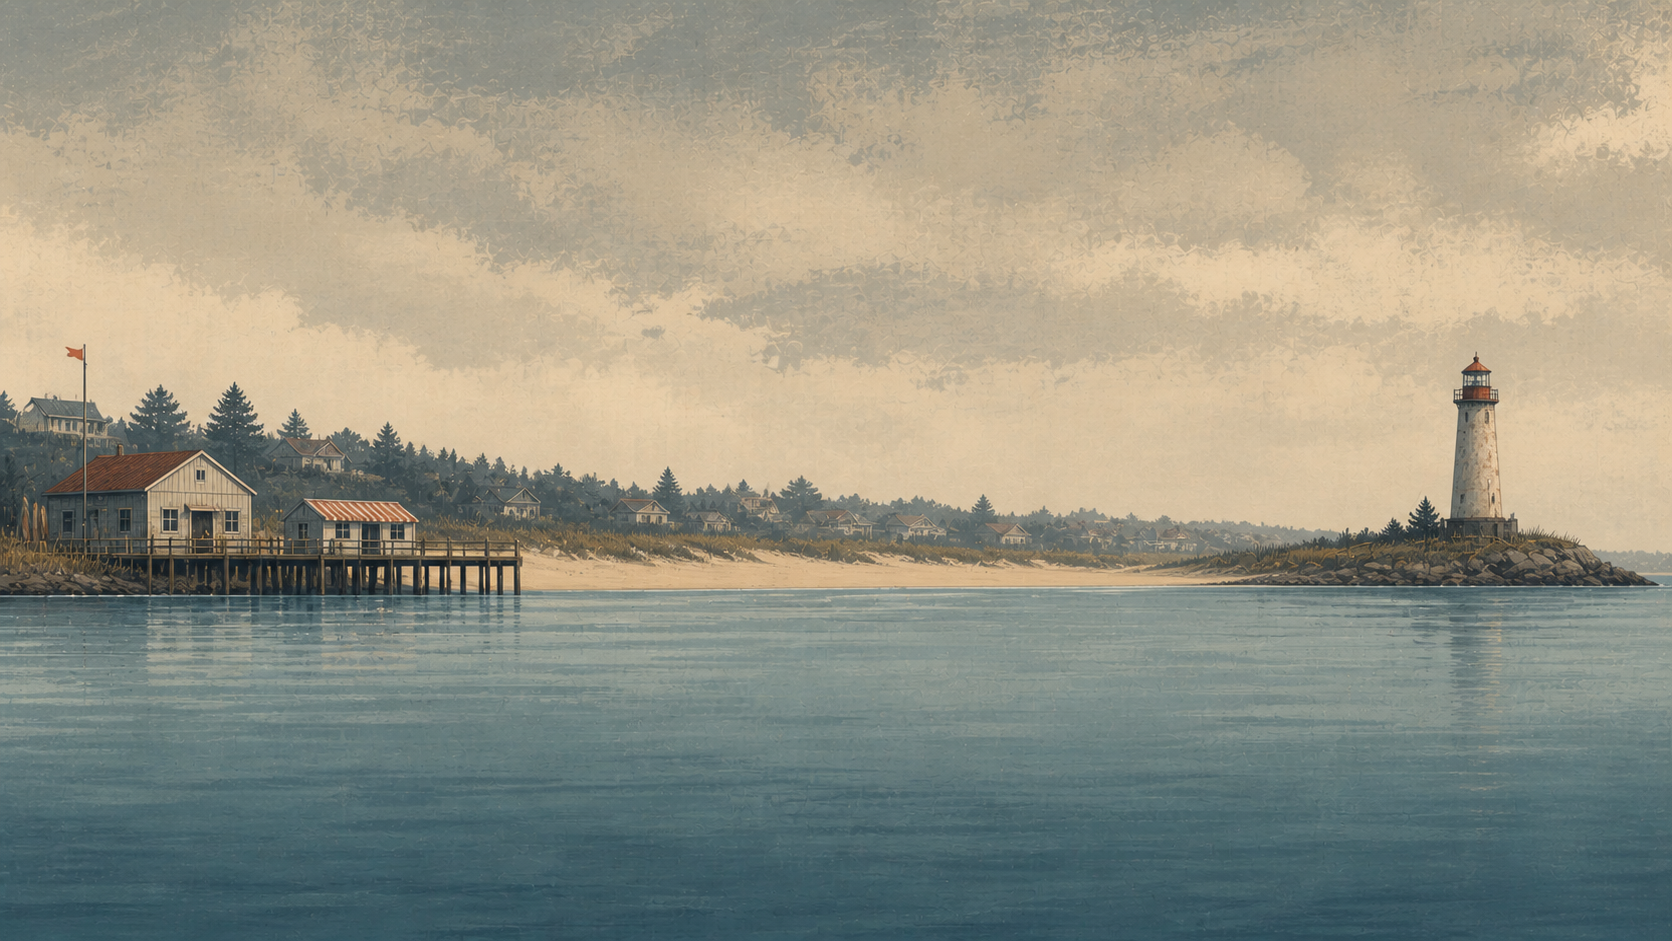
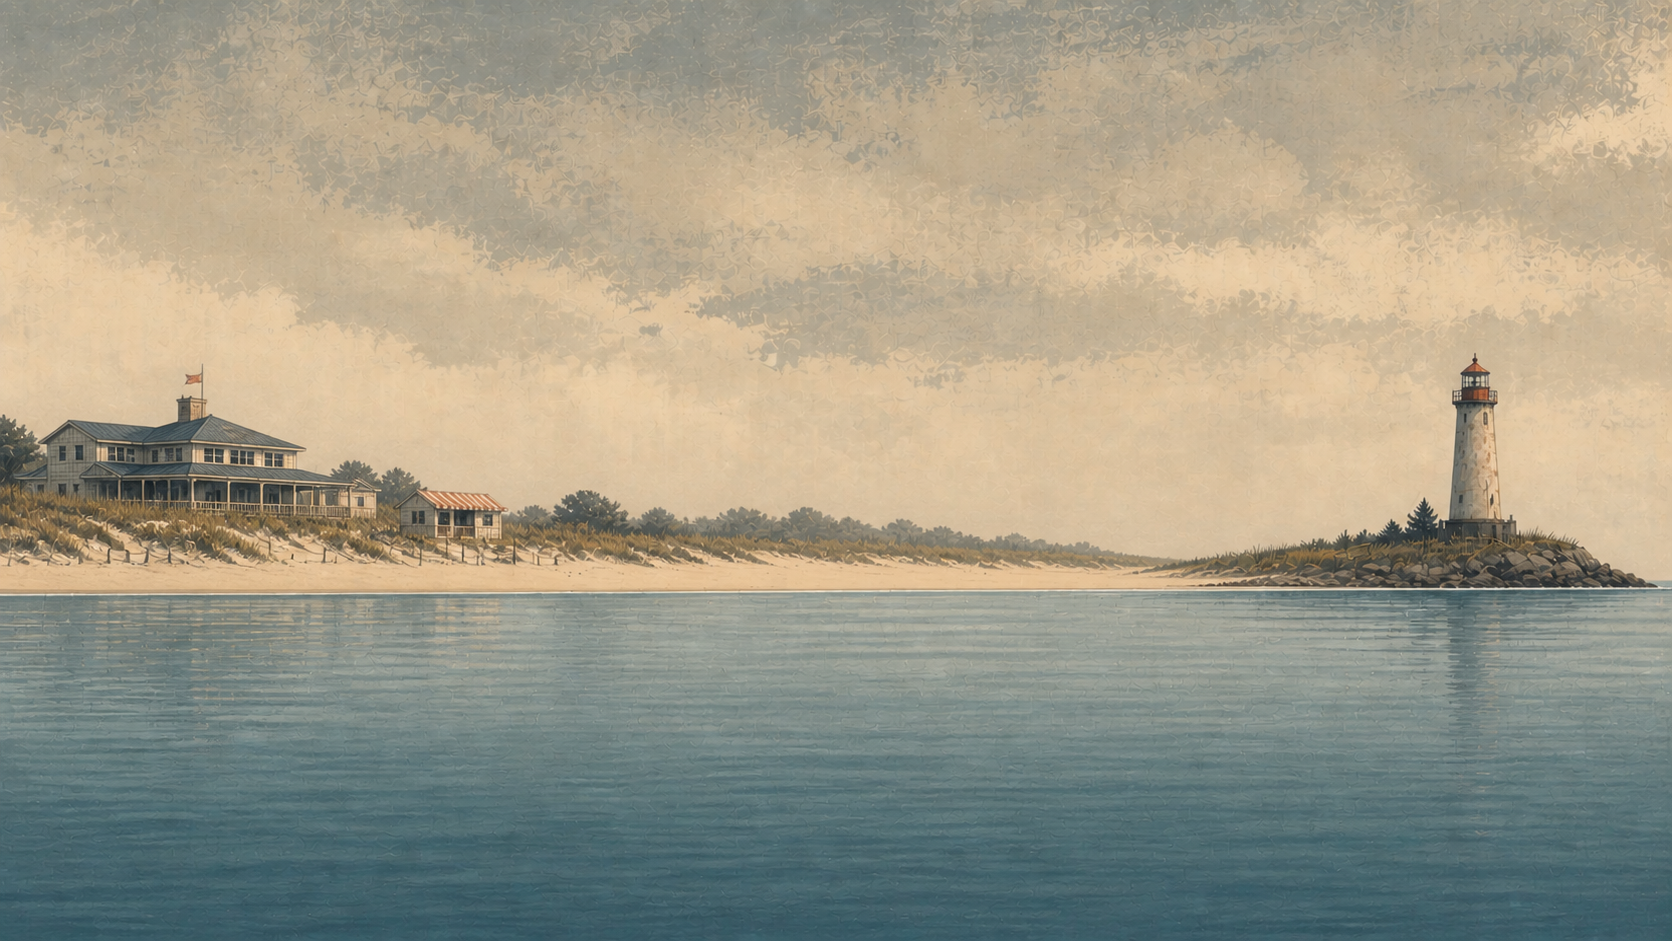
fix: realign and redraw Beach shoreline

diff --git a/src/game/renderer.ts b/src/game/renderer.ts
@@ -56,7 +56,11 @@ import {
   surfaceFishPose,
   type SurfaceFishingCue,
 } from "./fishingSpotEffects";
-import { calculatePanoramaLayout } from "./panorama";
+import {
+  BEACH_AUTHORED_WATERLINE_RATIO,
+  calculatePanoramaLayout,
+  LAKE_AUTHORED_WATERLINE_RATIO,
+} from "./panorama";
 import {
   maxFishingDepth,
   navigationGuidance,
@@ -274,11 +278,21 @@ export class CanvasRenderer {
     const nightIntensity = nightVisualIntensity(simulation);
     const dayImage = simulation.world === "beach" ? art.beach : art.lake;
     const nightImage = simulation.world === "beach" ? art.beachNight : art.lakeNight;
-    const waterline = this.drawPanorama(nightIntensity >= 1 ? nightImage : dayImage, camera, width, height);
+    const authoredWaterlineRatio =
+      simulation.world === "beach"
+        ? BEACH_AUTHORED_WATERLINE_RATIO
+        : LAKE_AUTHORED_WATERLINE_RATIO;
+    const waterline = this.drawPanorama(
+      nightIntensity >= 1 ? nightImage : dayImage,
+      camera,
+      width,
+      height,
+      authoredWaterlineRatio,
+    );
     if (nightIntensity > 0 && nightIntensity < 1) {
       context.save();
       context.globalAlpha = nightIntensity;
-      this.drawPanorama(nightImage, camera, width, height);
+      this.drawPanorama(nightImage, camera, width, height, authoredWaterlineRatio);
       context.restore();
     }
     context.save();
@@ -690,6 +704,10 @@ export class CanvasRenderer {
     const nightIntensity = nightVisualIntensity(simulation);
     const dayImage = simulation.world === "beach" ? art.beach : art.lake;
     const nightImage = simulation.world === "beach" ? art.beachNight : art.lakeNight;
+    const authoredWaterlineRatio =
+      simulation.world === "beach"
+        ? BEACH_AUTHORED_WATERLINE_RATIO
+        : LAKE_AUTHORED_WATERLINE_RATIO;
     const drawSurfaceImage = (
       image: HTMLImageElement,
       alpha: number,
@@ -701,6 +719,7 @@ export class CanvasRenderer {
         camera,
         viewportWidth: width,
         viewportHeight: height,
+        authoredWaterlineRatio,
       });
       context.save();
       context.beginPath();
@@ -918,6 +937,7 @@ export class CanvasRenderer {
     camera: SideScrollCamera,
     width: number,
     height: number,
+    authoredWaterlineRatio: number,
   ): number {
     const layout = calculatePanoramaLayout({
       imageWidth: image.naturalWidth,
@@ -925,6 +945,7 @@ export class CanvasRenderer {
       camera,
       viewportWidth: width,
       viewportHeight: height,
+      authoredWaterlineRatio,
     });
     this.context.drawImage(
       image,

diff --git a/src/tests/panorama.test.ts b/src/tests/panorama.test.ts
@@ -5,7 +5,10 @@ import {
   dampSideScrollCamera,
   worldToScreenX,
 } from "../game/camera";
-import { calculatePanoramaLayout } from "../game/panorama";
+import {
+  BEACH_AUTHORED_WATERLINE_RATIO,
+  calculatePanoramaLayout,
+} from "../game/panorama";
 
 const IMAGE_WIDTH = 1672;
 const IMAGE_HEIGHT = 941;
@@ -34,6 +37,28 @@ describe("panorama layout", () => {
     expect(waterlineRatio).toBeCloseTo(0.78);
     expect(layout.sourceY).toBeLessThan(IMAGE_HEIGHT * 0.61);
     expect(layout.sourceY + layout.sourceHeight).toBeGreaterThan(IMAGE_HEIGHT * 0.61);
+  });
+
+  test("aligns the Beach crop to its lower painted ocean edge", () => {
+    const camera = createSideScrollCamera({
+      focusX: 0.15,
+      velocityX: 0,
+      viewWidth: 0.3,
+      lookAheadTime: 0.24,
+    });
+    const layout = calculatePanoramaLayout({
+      imageWidth: IMAGE_WIDTH,
+      imageHeight: IMAGE_HEIGHT,
+      camera,
+      viewportWidth: 1920,
+      viewportHeight: 1010,
+      authoredWaterlineRatio: BEACH_AUTHORED_WATERLINE_RATIO,
+    });
+    const paintedOceanEdge = IMAGE_HEIGHT * BEACH_AUTHORED_WATERLINE_RATIO;
+
+    expect(layout.waterline / 1010).toBeCloseTo(0.78);
+    expect(layout.sourceY).toBeLessThan(paintedOceanEdge);
+    expect(layout.sourceY + layout.sourceHeight).toBeGreaterThan(paintedOceanEdge);
   });
 
   test("keeps the crop within the panorama at both lake edges", () => {

diff --git a/src/game/panorama.ts b/src/game/panorama.ts
@@ -14,9 +14,11 @@ interface PanoramaLayoutInput {
   camera: SideScrollCamera;
   viewportWidth: number;
   viewportHeight: number;
+  authoredWaterlineRatio?: number;
 }
 
-const AUTHORED_WATERLINE_RATIO = 0.61;
+export const LAKE_AUTHORED_WATERLINE_RATIO = 0.61;
+export const BEACH_AUTHORED_WATERLINE_RATIO = 0.627;
 const DISPLAYED_WATERLINE_RATIO = 0.78;
 
 export function calculatePanoramaLayout(input: PanoramaLayoutInput): PanoramaLayout {
@@ -24,7 +26,8 @@ export function calculatePanoramaLayout(input: PanoramaLayoutInput): PanoramaLay
   const viewportAspect = input.viewportWidth / input.viewportHeight;
   const sourceHeight = Math.min(input.imageHeight, sourceWidth / viewportAspect);
   const sourceX = input.camera.left * input.imageWidth;
-  const authoredWaterline = input.imageHeight * AUTHORED_WATERLINE_RATIO;
+  const authoredWaterline =
+    input.imageHeight * (input.authoredWaterlineRatio ?? LAKE_AUTHORED_WATERLINE_RATIO);
   const sourceY = clamp(
     authoredWaterline - sourceHeight * DISPLAYED_WATERLINE_RATIO,
     0,

diff --git a/Docs/Asset-Manifest.md b/Docs/Asset-Manifest.md
@@ -25,11 +25,11 @@ The boat, harbor pier, fish atlas, and world atlas were requested on a uniform `
 ### `beach-chart.png` and `beach-chart-night.png`
 
 - Runtime role: unlockable Beach location panorama and its composition-matched nighttime plate
-- Generated and runtime size: 1672 × 941 for both plates, exactly matching the lake panorama's runtime dimensions, camera crop, and waterline calculations
+- Generated and runtime size: 1672 × 941 for both plates, exactly matching the lake panorama's runtime dimensions and horizontal camera scale while using the Beach plate's measured authored-waterline ratio
 - Generated on: 14 August 2026 with OpenAI's built-in image-generation tool
-- Generation mode: the daytime plate was generated with `lake-chart.png` as the authoritative style, camera, world-scale, waterline, palette, and readability reference; the night plate is a lighting-weather edit of the generated daytime Beach plate
-- Day prompt: “Use case: stylized-concept. Asset type: production runtime panorama for the side-scrolling 2D browser game FSHING. Image 1 is the authoritative reference for painting style, camera, world scale, waterline placement, quiet atmospheric depth, palette restraint, and open gameplay readability only; create an original new location rather than editing or copying its lake geography. Create a seaside town called Beach, with a surf club, pier, and fish-and-chip shop on the far left and a lighthouse on the far right. A calm coastal bay with a broad sandy beach and low seaside town is viewed from across the water. On the far left, include a modest weatherboard surf lifesaving club, a narrow timber pier extending rightward over the water, and a small fish-and-chip shop with a restrained striped awning and serving window. On the far right, include a tall weathered lighthouse on a low rocky headland. Keep the middle mostly open water and distant beach so a player boat and gameplay markers remain readable. Use restrained editorial gouache and screen-print illustration matching Image 1, with simplified shapes, soft dry-brush edges, subtle aged-paper grain, and atmospheric layers. Strict side-on landscape panorama, not top-down and not isometric. Match Image 1's wide 1672 × 941 aspect ratio, camera height, landmark scale, horizon depth, and crisp waterline at about 61 percent of image height. Full bleed. Left landmarks stay within the outer left quarter; lighthouse stays within the outer right quarter; unobstructed navigable water spans the full width. Quiet overcast late-afternoon coastal light. Muted slate blue and sea teal, weathered cream, sandy ochre, subdued coral and sparse safety-orange accents. Weathered painted timber, narrow pier planks and pilings at believable boat scale, sand, dune grass, dark coastal rock, and painted masonry lighthouse. Exactly one continuous coherent seaside world background. No player boat, fish, people, vehicles, text, readable shop signage, logo, UI, labels, borders, map, or watermark. Do not place obstacles in the open water. Preserve ample calm water below the waterline for gameplay. Make the surf club, pier, fish-and-chip shop, beach, town, and lighthouse all visibly distinct at gameplay scale. Avoid photorealism, glossy 3D, cartoon outlines, tropical resort imagery, crowded skyline, giant buildings, close-up structures, dramatic storm, crashing waves, duplicated lighthouses, and center foreground landmarks.”
-- Night prompt: “Use case: lighting-weather. Asset type: runtime side-scrolling game panorama, nighttime counterpart to the supplied Beach daytime background. Image 1 is the edit target and authoritative daytime Beach composition. Transform only the time of day from quiet overcast late afternoon to atmospheric deep coastal night. Preserve exactly the existing camera, 1672 × 941 aspect ratio, horizon, waterline, surf club, fish-and-chip shop, pier, beach, town, lighthouse, rocks, every object's placement and scale, and all open gameplay water. Use cool blue-black moonless ambient light, darker but readable silhouettes, a restrained warm surf-club window glow, a small warm shop glow, and one believable lighthouse lamp glow with subtle narrow reflections. No moon, boat, fish, people, characters, text, UI, labels, borders, watermark, fog, vignette, spotlight beam crossing the scene, camera change, or new landmarks. Keep the same restrained editorial gouache, screen-print texture, dry-brush softness, and aged-paper grain. Change only lighting and atmosphere; keep all geography and geometry unchanged.”
+- Generation mode: OpenAI built-in image generation. The daytime plate was regenerated from the previous Beach plate as a style, camera, right-lighthouse, palette, and scale reference while explicitly replacing its lake-like left quarter. The night plate is a lighting-weather edit of the accepted daytime plate. The painted ocean edge is authored at a measured 0.627 image-height ratio and registered separately from the lake ratio in the panorama projection.
+- Day prompt: “Use case: stylized-concept. Asset type: replacement production runtime panorama for the side-scrolling 2D browser game FSHING. Image 1 is a style, overall side-on camera, landmark scale, right-side lighthouse, painterly texture, palette restraint, and wide-aspect reference. Create a newly composed Beach location; do not copy its left-side buildings or shoreline. Scene/backdrop: one continuous calm coastal bay under quiet overcast late-afternoon light. Open ocean water spans the full width below one crisp, level painted waterline placed at exactly 61 percent of the image height. Broad pale sand and low windswept dunes run behind the water. The middle remains mostly open distant beach and low coastal vegetation for gameplay readability. Left quarter: replace the reference's entire left quarter with a clearly coastal Australian seaside scene. A low, broad, two-storey weatherboard surf lifesaving clubhouse with a deep veranda faces the beach, set back on pale sand dunes. Beside it is a separate small fish-and-chip kiosk with a restrained canvas striped awning and serving window. Include dune grass, beach fencing, a few low coastal shrubs, and a clear sandy shoreline landing at the extreme left where a separate gameplay pier sprite can connect. Do not paint any pier, jetty, dock, pilings, boathouse, warehouse, red gabled shed, marina, reed marsh, pine forest, or industrial harbor into the panorama. Right quarter: preserve the identity of one tall weathered cream lighthouse on a low dark rocky headland, clearly separated from the town. No second lighthouse. Style/medium: restrained editorial gouache and screen-print illustration matching Image 1: simplified shapes, soft dry-brush edges, subtle aged-paper grain, muted slate blue and sea teal, weathered cream, sandy ochre, muted coral accents, subdued contrast. Strict side-on landscape panorama, not top-down or isometric. Match Image 1's 1672 × 941 aspect ratio, camera height, small landmark scale, atmospheric depth, and full-bleed treatment. Composition constraints: left landmarks remain inside the outer left quarter; lighthouse remains inside the outer right quarter; the center stays calm and uncluttered; ample continuous ocean sits below the exact 61-percent waterline. No player boat, fish, people, vehicles, readable signage, text, logo, UI, icons, labels, borders, map, watermark, obstacles in open water, crashing waves, tropical palms, giant buildings, close-up structures, glossy 3D, photorealism, or cartoon outlines.”
+- Night prompt: “Use case: lighting-weather. Asset type: runtime side-scrolling game panorama, nighttime counterpart to the supplied Beach daytime background. Image 1 is the edit target and authoritative composition. Transform only the time of day from quiet overcast late afternoon to atmospheric deep coastal night. Preserve exactly the existing camera, aspect ratio, painted ocean waterline, low veranda-fronted surf clubhouse, separate fish-and-chip kiosk and awning, sand dunes, beach fencing, coastal shrubs, clear left shoreline landing, open center, lighthouse, rocks, every object's placement and scale, and all open gameplay water. Use cool blue-black moonless ambient light, darker but readable silhouettes, restrained warm clubhouse window glow, a small warm kiosk glow, and one believable warm lighthouse lamp glow with subtle narrow reflections. Keep the exact restrained editorial gouache and screen-print texture, dry-brush softness, and aged-paper grain. Change only lighting and atmosphere. No moon, pier, dock, jetty, boat, fish, people, characters, readable text, UI, labels, borders, watermark, fog, vignette, broad lighthouse beam, camera change, geometry change, or new landmarks.”
 
 ### `player-boat.png`
 
@@ -153,12 +153,11 @@ The boat, harbor pier, fish atlas, and world atlas were requested on a uniform `
 
 ### `beach-harbor-pier.png`
 
-- Runtime role: larger, lighter Beach-only harbor pier; mirrored at the Beach's right shore
-- Generated size: 1692 × 930; runtime alpha is authored by local soft chroma-key removal
-- Generation mode: OpenAI built-in image generation using `harbor-pier.png` for required orientation and gameplay footprint and `beach-chart.png` for coastal palette, atmosphere, and world scale
-- Prompt: “Use case: precise-object-edit. Asset type: production Beach harbor-pier sprite for the side-on 2D browser game FSHING. Image 1 is the existing runtime pier and defines the required strict side-profile orientation, shoreline-connected left edge, long horizontal gameplay footprint, and isolated-sprite layout. Image 2 is the Beach panorama and defines the coastal gouache palette, paper grain, soft dry-brush treatment, lighting, and world scale. Regenerate Image 1 as a slightly grander, more substantial pier built from much lighter coastal wood specifically for the Beach location. Exactly one long seaside timber pier in strict orthographic side profile. Use sun-bleached pale cream, light honey, and weathered driftwood-grey timber. Make it feel grander through a thicker layered deck and fascia, taller sturdy paired support pilings with restrained cross-bracing, a more substantial light-wood outer mooring post, and a clean modest railing along the back edge. Keep approximately 36–44 narrow boat-scale deck plank divisions. The structure should feel well-kept and important but still practical and believable beside the player boat. Restrained editorial gouache and screen-print painting matching Image 2; soft dry-brush edges, subtle aged-paper grain inside the object, simplified readable construction, subdued coastal contrast. Very wide horizontal sprite; pier touches and exits the left edge so it connects to shore; full pier extends rightward to a free terminal end; all geometry fully visible vertically with modest top and bottom padding. Preserve roughly the existing length-to-height ratio while making the structure about 15–20% visually taller and more substantial. Perfectly uniform full-bleed pure chroma-magenta #FF00FF matte for local background removal. No texture, gradient, shadow, floor, water, reflection, checkerboard, or lighting variation in the matte. Do not use #FF00FF anywhere in the pier. No boat, people, buildings, beach, landscape, water, text, UI, signs, flags, roof, gazebo, lamps, furniture, detached boards, extra objects, cast shadow, border, grid, or watermark. Preserve a clean gameplay-readable silhouette and believable narrow timber scale. Avoid dark ink-navy wood, blackened timber, tiny fragile jetty, enormous cruise terminal, ornate Victorian decoration, top-down view, diagonal perspective, floating platform, glossy 3D, hard cartoon outline, saturated color, or photorealism.”
-- Processing: border-sampled `#f427f0` matte removed with the installed soft-matte and despill helper; transparent and antialiased edges retained in the runtime PNG
-- Post-processing: hard chroma key sampled from the generated border with 45 tolerance, despill, and one-pixel edge contraction; cropped to the alpha bounds and runtime aspect ratio so the shoreline cut and outer post meet opposite canvas edges, then uniformly resized to 1623 × 386
+- Runtime role: larger Beach-only harbor pier in medium weathered honey-tan wood; mirrored at the Beach's right shore
+- Generated and runtime size: 1672 × 941; runtime alpha is authored by local soft chroma-key removal
+- Generation mode: OpenAI built-in image edit using the previous grand Beach pier as the authoritative geometry and the regenerated Beach panorama as the coastal palette and texture reference. The chroma-magenta matte was removed locally with soft-matte despill.
+- Prompt: “Use case: precise-object-edit. Asset type: replacement production Beach harbor-pier sprite for the side-on 2D browser game FSHING. Image 1 is the edit target and authoritative geometry. Preserve exactly its single grand pier silhouette, strict orthographic side profile, left-edge shoreline connection, long horizontal footprint, layered deck and fascia, narrow boat-scale plank divisions, modest back railing, paired support pilings and braces, rope-wrapped outer mooring post, proportions, and padding. Image 2 is the authoritative coastal gouache lighting, palette, paper grain, and atmosphere reference only; do not include its scenery. Change only the pier wood color and tonal balance. Replace the almost-white washed timber with clearly medium-value weathered coastal wood: desaturated warm honey-tan and driftwood brown, gray-brown shaded sides and pilings, restrained muted cream edge highlights. The pier must be visibly darker and less bright than Image 1, with enough midtone contrast to read against pale sand and sky, while staying lighter and warmer than the lake's ink-navy pier. Keep the rope muted ochre-brown. Preserve restrained editorial gouache and screen-print rendering, soft dry-brush edges, subtle aged-paper grain inside the object, and subdued contrast. Output exactly one isolated pier on a perfectly uniform full-bleed pure chroma-magenta #FF00FF matte for local background removal. No texture, gradient, shadow, floor, water, reflection, checkerboard, or lighting variation in the matte. Do not use #FF00FF inside the pier. No boat, people, buildings, beach, landscape, text, UI, signs, flags, lamps, furniture, detached boards, extra objects, cast shadow, border, grid, or watermark. Do not change geometry, perspective, construction, scale, or orientation. Avoid white, ivory-dominant, bleached-pale, dark ink-navy, blackened, orange-saturated, glossy 3D, hard cartoon outline, and photorealism.”
+- Processing: border-sampled `#f704f6` matte removed with the installed soft-matte and despill helper; transparent and antialiased edges retained in the full-size runtime PNG
 
 ### `fshing-wordmark.png`
 

diff --git a/Docs/Game-Brief.md b/Docs/Game-Brief.md
@@ -291,7 +291,7 @@ Money is earned primarily from completed deliveries and spent on permanent impro
 - **Lights:** See landmarks and resist nighttime visibility penalties.
 - **Line depth:** Reach progressively deeper fish and new underwater color zones.
 - **Region access:** Purchase permits or equipment needed to enter new waters.
-- **Beach location:** A one-time 120-shell chart upgrade unlocks travel between the lake and Beach, a coastal bay with a surf club, grand pale-timber pier, fish-and-chip shop, broad sandy shore, and lighthouse. The alternate panorama uses the same normalized world scale, camera, waterline, controls, harbors, and fishing interactions as the lake so it expands the sailing setting without creating a second ruleset. Beach fishing schools retain the same interaction distances but receive a stronger localized polarized-water glow and higher sprite contrast so their positions stay readable against the pale coastal water.
+- **Beach location:** A one-time 120-shell chart upgrade unlocks travel between the lake and Beach, a coastal bay with a low veranda-fronted surf club, substantial medium-tan timber pier, small fish-and-chip kiosk, broad sandy dunes, and lighthouse. Its left shoreline must read immediately as an open seaside settlement rather than reuse Brindle Harbor's boathouse, red-roof shed, conifers, reeds, or working-lake silhouette. The panorama leaves a clear shoreline landing for the separate gameplay pier sprite instead of painting a second foreground pier into the background. The alternate panorama uses the same normalized world scale, camera, controls, harbors, and fishing interactions as the lake while recording its own authored painted-waterline ratio, so the boat, pier, fish, and surface effects align to the actual ocean rather than to the lake artwork. Beach fishing schools retain the same interaction distances but receive a stronger localized polarized-water glow and higher sprite contrast so their positions stay readable against the pale coastal water.
 
 Cargo has seven tiers to match its seven locked inventory slots; engine, lights, and line depth have six tiers. Repair costs support the opening scenario and any authored damage events. Prices rise by upgrade tier without requiring excessive repetition. The player should regularly face a useful decision between building a larger boat, improving travel time, strengthening night visibility, or reaching a deeper and more profitable fishing world.
 
@@ -675,11 +675,11 @@ Every authored visual asset in this slice is generated with GPT Image 2.0. No pr
 | --- | --- |
 | `fshing-wordmark.png` | Restrained title-screen identity |
 | `lake-chart.png` | Side-on panoramic sky, distant shore, waterline, and lake atmosphere |
-| `beach-chart.png` | Side-on seaside-town panorama with the surf club, pier, fish-and-chip shop, beach, and lighthouse |
+| `beach-chart.png` | Side-on seaside-town panorama with a distinct low surf club, fish-and-chip kiosk, dune beach, clear gameplay-pier landing, and lighthouse |
 | `beach-chart-night.png` | Composition-matched nighttime Beach panorama |
 | `player-boat.png` | Player vessel in strict side profile on a chroma-key matte |
 | `harbor-pier.png` | Long weathered side-view harbor pier that extends from either shoreline; its fixed footprint uses roughly 36–44 narrow deck-plank divisions so the timber scale remains believable beside the player boat |
-| `beach-harbor-pier.png` | Larger Beach-only pier with pale sun-bleached timber, a restrained railing, paired pilings, and boat-scale plank divisions |
+| `beach-harbor-pier.png` | Larger Beach-only pier with medium weathered honey-tan timber, a restrained railing, paired pilings, and boat-scale plank divisions |
 | `fish-atlas.png` | Fishing-hook sprite and retained original fish reference cells |
 | `fish-atlas-v2.png` | Nine independently generated, silhouette-distinct species in a strict 3 × 3 atlas |
 | `surface-fishing-cues.png` | Six faint school-fish poses plus the primary proximity hook cue in a strict 4 × 2 atlas; the secondary disabled cell is unused |
